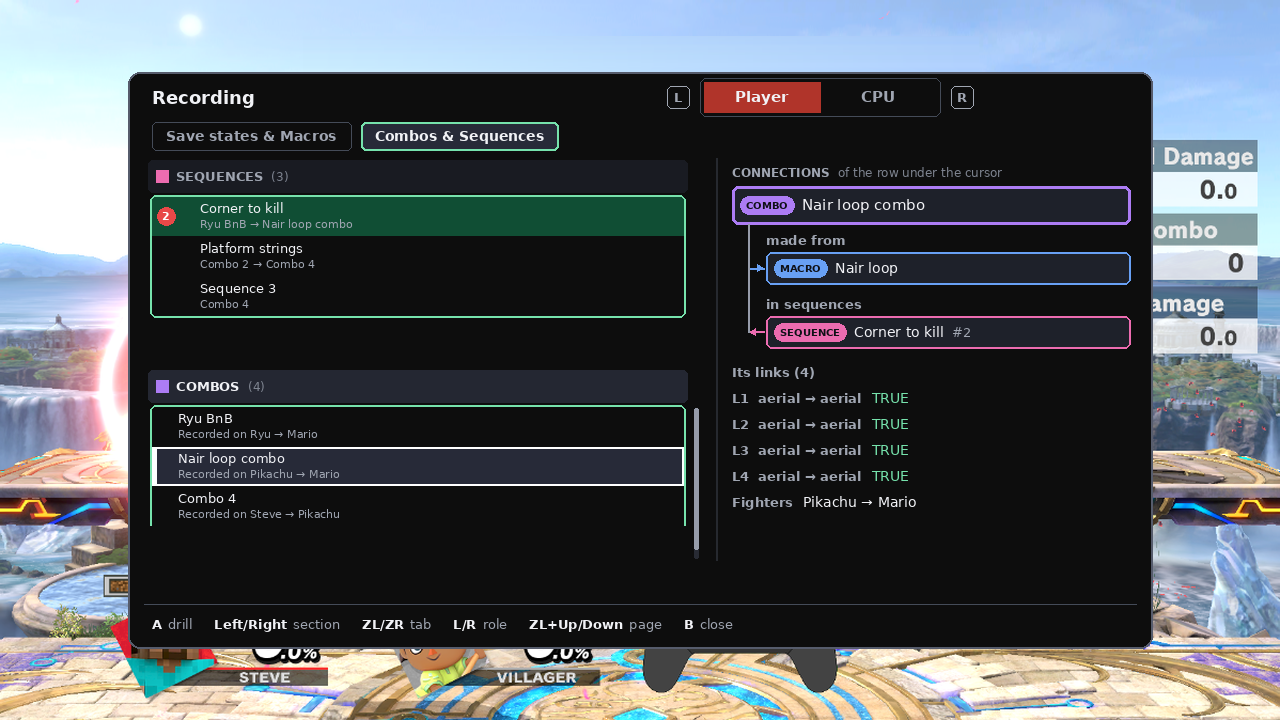
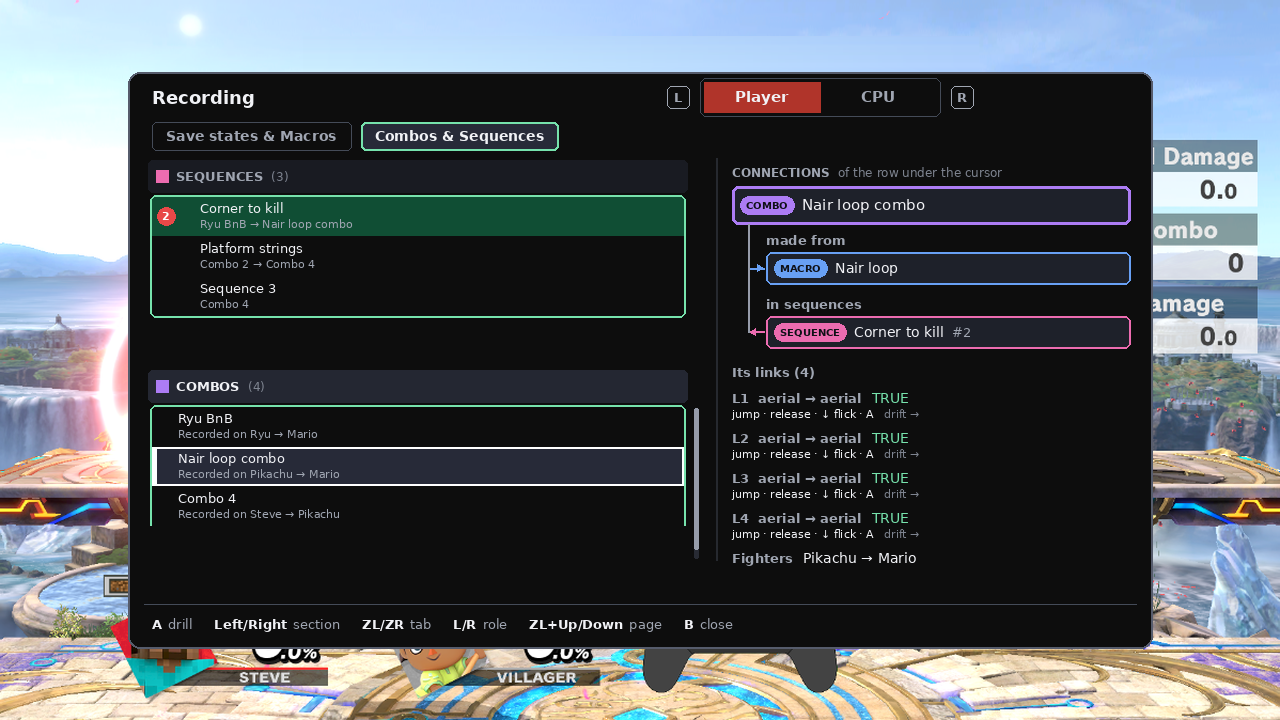
DECISIONS: RECORDING-REDESIGN revision 8.3, combos record input events; drift is information

Changed region(s): [[0.5625, 0.55, 0.7188, 0.7944]]

diff --git a/tools/render_recording_redesign.py b/tools/render_recording_redesign.py
@@ -827,10 +827,10 @@ def links_spec(key, role="player"):
                  "nodes": [("conv", n, None, "#%d" % i, False) for n, i in convs], "none": "none"},
             ],
             "lines": [("Its links (4)", "", None),
-                      ("L1  aerial → aerial", "TRUE", GREEN),
-                      ("L2  aerial → aerial", "TRUE", GREEN),
-                      ("L3  aerial → aerial", "TRUE", GREEN),
-                      ("L4  aerial → aerial", "TRUE", GREEN),
+                      ("L1  aerial → aerial", "TRUE", GREEN, "jump · release · ↓ flick · A", "drift →"),
+                      ("L2  aerial → aerial", "TRUE", GREEN, "jump · release · ↓ flick · A", "drift →"),
+                      ("L3  aerial → aerial", "TRUE", GREEN, "jump · release · ↓ flick · A", "drift →"),
+                      ("L4  aerial → aerial", "TRUE", GREEN, "jump · release · ↓ flick · A", "drift →"),
                       ("Fighters", combo["fighters"], ch.M_TEXT)],
         }
     conv = {v["key"]: v for v in V4}.get(key)
@@ -917,7 +917,10 @@ def links_panel(img, box, spec, header=True):
         y += 4
     d.line((stem_x, stem_top, stem_x, stem_bot), fill=(150, 156, 170, 255), width=2)
     y += 4
-    for label, value, colour in spec["lines"]:
+    for item in spec["lines"]:
+        label, value, colour = item[:3]
+        detail = item[3] if len(item) > 3 else None
+        drift = item[4] if len(item) > 4 else None
         if label == "LOOP":
             iv.text(d, (x0, y + 14), "Loop", fnt(13, bold=True), fill=ch.M_GROUP, anchor="lm")
             loop4(img, x0 + 40, y, value, 28)
@@ -938,7 +941,19 @@ def links_panel(img, box, spec, header=True):
             if value:
                 iv.text(d, (x0 + d.textlength(label, font=fl) + 10, y + 10), value, fnt(14),
                         fill=colour or ch.M_TEXT, anchor="lm")
-            y += 26
+            if detail:
+                fe = fnt(11)
+                ev_x = x0
+                # Stay inside the panel. A line that would pass the right edge is not drawn.
+                if ev_x + d.textlength(detail, font=fe) <= x1:
+                    iv.text(d, (ev_x, y + 26), detail, fe, fill=ch.M_TEXT, anchor="lm")
+                    if drift:
+                        dx = ev_x + d.textlength(detail, font=fe) + 10
+                        if dx + d.textlength(drift, font=fe) <= x1:
+                            iv.text(d, (dx, y + 26), drift, fe, fill=DIM, anchor="lm")
+                y += 40
+            else:
+                y += 26
     return y
 
 

diff --git a/docs/decisions/RECORDING-REDESIGN.md b/docs/decisions/RECORDING-REDESIGN.md
@@ -1,4 +1,4 @@
-# Recording redesign — revision 8.2
+# Recording redesign — revision 8.3
 
 Revision 7 records the operator's answers to every question (2026-11-06): pins are dropped, the hot five are the most recently used, and Q8 drills combos without requiring them to be true. This is the implementation spec.
 
@@ -11,6 +11,8 @@ Revision 8 applies the operator's answers of 2026-11-06. A save state only warps
 Revision 8.1 calls a connection between files a connection. The combo helper still says link for its hits, and the combo's panel lists each one with its two moves and whether it was recorded TRUE. The operator signed off: "yes have grok do both and then we are green to implement".
 
 Revision 8.2 records the operator's answers to the implementation questions. A different move does not count. R removes the last number, so a chain or a sequence may be empty. Switch / Keep for a chain is asked only for macro 1. Auto-load on death only warps to the bound save. The operator: "1. No. 2. agreed. 3. this should only apply to the first macro. if it's the second macro then it just keeps the same character. 4. agreed".
+
+Revision 8.3 records the inputs a combo link stores. A link records presses and releases, the C-stick, and stick flicks, up to 12 events, and drift is shown as information only. The operator: "yes do it, show drift as info only".
 
 Phase 1 screens. Nothing here is built. The pop-up sits on a real Training frame, `artifacts/phase23/overlay-investigation/frames/fix-tr-training.png` (Steve and Villager on Battlefield). The menu pictures are redrawn on the real rc.1 Recording page (`eden-runs/tr-p23-docs-capture-03`). Names and lengths are examples, and every picture uses the same example files. The first picture shows them.
 
@@ -156,7 +158,7 @@ Operator, 2026-11-06: "I agree with your answers to q12 and q13".
 
 ![Pop-up, a combo focused](RECORDING-REDESIGN-r8-popup-combo.png)
 
-*The cursor is on Nair loop combo. Corner to kill wears 2 at its left edge, because that combo is its second step. The Connections panel says Nair loop combo was made from Nair loop and is number 2 in Corner to kill. The panel lists each link, its two moves, and whether it was recorded TRUE. It reads the combo file's own `links`; nothing new is stored. Recorded on names both fighters, and it does not hide the row.*
+*The cursor is on Nair loop combo. Corner to kill wears 2 at its left edge, because that combo is its second step. The Connections panel says Nair loop combo was made from Nair loop and is number 2 in Corner to kill. The panel lists each link, its two moves, and whether it was recorded TRUE, then that link's events, for example "jump · release · ↓ flick · A", and drift as information ("drift →"). It reads the combo file's own `links`. A step counts when those events are there, of the same kind and direction, in order and within the tolerance, and the move that comes out is the recorded move. The operator: "yes do it, show drift as info only". Recorded on names both fighters, and it does not hide the row.*
 
 ### Q5 · How the two lists sit in the Combos & Sequences tab — decided: A
 
@@ -331,13 +333,17 @@ Operator, 2026-11-06.
 
 The bar is the combo helper's bar with a sequence header and a row for the sequence's combos. TRUE, the current link, and the links still to come use the helper's own marks. Streak and best count only a finished sequence. A drop restarts the sequence at combo 1, with the streak back to 0 and best kept; the Q8 picture shows it.
 
-**Grading, decided ([Q8](#q8-a-drop-and-what-completes-the-sequence-decided)); this changes the existing combo helper.** Today a combo attempt is clean only when every link is TRUE, every press is there, and every press is within the tolerance (`src/model/combo.rs`: `Grade::clean`, `Reason`). Clean no longer needs TRUE, for a combo drilled alone and for a sequence. A step counts when its recorded presses are there, with the same direction, in order and within the tolerance, and the move that comes out is the recorded move. A step drops on a missing press, a press outside the tolerance, a different move, or the exchange ending before the step. The exchange ends 20 frames after the CPU can act again, or on a shielded hit, so the CPU may act in a gap for up to 20 frames and a longer gap is a drop. TRUE stays on the bar as information.
+**Grading, decided ([Q8](#q8-a-drop-and-what-completes-the-sequence-decided)); this changes the existing combo helper.** Today a combo attempt is clean only when every link is TRUE, every press is there, and every press is within the tolerance (`src/model/combo.rs`: `Grade::clean`, `Reason`). Clean no longer needs TRUE, for a combo drilled alone and for a sequence. A step counts when its recorded input events are there, of the same kind and direction, in order and within the tolerance, and the move that comes out is the recorded move. A link records button presses and releases, the C-stick, and stick flicks (fast-fall, dash, tap-jump), each timed from the first frame you could act, up to 12 events. Directions are relative to facing (forward or back, up, down, and the diagonals). Left and right are told apart, and a combo recorded facing right still grades facing left. That facing rule is the primary's design choice. Drift, the held stick between events, is recorded and shown as information and is never graded. A missing or extra-late event is a drop, as is a different move, or the exchange ending before the step. Older combo files (presses only) still load and grade on their presses as before. Nothing new is required of a shared file. The exchange ends 20 frames after the CPU can act again, or on a shielded hit, so the CPU may act in a gap for up to 20 frames and a longer gap is a drop. TRUE stays on the bar as information. The operator: "yes do it, show drift as info only".
 
 ### Q8 · A drop, and what completes the sequence — decided
 
 A drop sends you back to combo 1 of the sequence, and the streak to 0; best is kept. Neither the sequence nor a combo has to be a true combo: the CPU may be able to act between the combos, or between two hits of one combo. This is for drilling things one after another. A step counts when you press its recorded buttons, with the same direction, in order and within the timing tolerance, and the move that comes out is the recorded move. A different move does not count, even when the presses match. A step drops on a missing press, a press outside the tolerance, a different move, or the exchange ending before the step. TRUE still shows on the bar, as information. It no longer decides whether a combo or a sequence counts. The exchange ends 20 frames after the CPU can act again, or on a shielded hit (the frame strip's `DROP_MAX`). So the CPU may act in a gap for up to 20 frames, and a longer gap is a drop. The primary asked: "Is that right? In particular: Should single combos also stop needing TRUE? Is a 20-frame allowance for the CPU acting the behaviour you want?" The operator: "that sounds right". The primary asked: "A different move with the same presses. Today the grader also fails a hit where the move came out different. Should that still count when the buttons, direction and timing are right?" The operator: "1. No."
 
 Operator, 2026-11-06.
+
+Amended in revision 8.3. A combo link records input events, not only presses: button presses and releases, the C-stick, and stick flicks (fast-fall, dash, tap-jump). Each event has its timing, counted from the first frame you could act. A link holds up to 12 events. Directions are relative to facing (forward or back, up, down, and the diagonals). Left and right are told apart, and a combo recorded facing right still grades facing left. That facing rule is the primary's design choice. A step counts when its recorded input events are there, of the same kind and direction, in order and within the tolerance, and the move that comes out is the recorded move. TRUE is still not required. A missing or extra-late event is a drop. Drift, the held stick between events, is recorded and shown as information. It is never graded. Older combo files (presses only) still load and grade on their presses as before. Nothing new is required of a shared file. Make combo and Save combo both record events. Save combo works from live play, because the strip already samples every frame. The operator asked: "if combos don't save inputs how do we know they were done properly? A nair loop for example that I record as a combo wouldn't that need the inputs? Otherwise it's just a glorified version of the combo counter in native training mode". The primary asked: "Should I do it? And should drift be shown only, as I suggest, or graded too?" The operator: "yes do it, show drift as info only".
+
+Operator, 2026-11-07.
 
 ![Q8, decided](RECORDING-REDESIGN-q8-decided.png)
 
@@ -385,7 +391,7 @@ Drilling one combo from a sequence's numbered rows uses that combo's own streak 
 - Pins are dropped. The hot five of each kind are the five most recently used, the most recent first. Used means selected (bound or set active), played, drilled or recorded. When a sixth is used, the least recently used leaves the outline and stays on the card under the hairline. Y is unused on these screens. Operator, 2026-11-06.
 - Q1, Q3, Q4, Q5, Q6, Q7, Q9, Q11, Q12 and Q13 are A; Q8 is the operator's own answer. Each block above says what it means. Operator, 2026-11-06.
 - When it is ambiguous, keep it consistent: few chords, with context deciding what they do. So the numbered picker (+ New chain, Edit chain, + New sequence, Edit combos) works as Character Cycles does: A gives the next number, R takes a number off and the later numbers close up, A on a numbered tile does nothing, and B is done. Inside the picker, R removes; the role toggle does not apply there, because the picker edits the file, whichever role it is active for. The operator: "when it's ambiguous I would keep it consistent. We want to minimize the number of chords and have context determine what they do. So in this case I would have R supercede A if that's more intuitive". Operator, 2026-11-06.
-- A combo or a sequence counts when its recorded presses are there, with the same direction, in order and within the tolerance, and the move that comes out is the recorded move. A different move does not count, even when the presses match, and a different move is a drop. TRUE is shown as information and is no longer a condition, for a combo drilled alone and for a sequence. This changes the existing combo helper (`Grade::clean`). The exchange ends 20 frames after the CPU can act again, or on a shielded hit, so the CPU may act in a gap for up to 20 frames and a longer gap is a drop. Confirmed: 'that sounds right'. Operator, 2026-11-06. The primary asked: "A different move with the same presses. Today the grader also fails a hit where the move came out different. Should that still count when the buttons, direction and timing are right?" The operator: "1. No." Operator, 2026-11-06.
+- A combo or a sequence counts when its recorded input events are there, of the same kind and direction, in order and within the tolerance, and the move that comes out is the recorded move. A link records presses and releases, the C-stick, and stick flicks (fast-fall, dash, tap-jump), up to 12 events, timed from the first frame you could act. Directions are relative to facing, the primary's design choice, so left and right are told apart and a combo recorded facing right still grades facing left. Drift is recorded and shown as information and is never graded. A missing or extra-late event is a drop. A different move does not count, even when the presses match, and a different move is a drop. TRUE is shown as information and is no longer a condition, for a combo drilled alone and for a sequence. This changes the existing combo helper (`Grade::clean`). The exchange ends 20 frames after the CPU can act again, or on a shielded hit, so the CPU may act in a gap for up to 20 frames and a longer gap is a drop. Confirmed: 'that sounds right'. Operator, 2026-11-06. The primary asked: "A different move with the same presses. Today the grader also fails a hit where the move came out different. Should that still count when the buttons, direction and timing are right?" The operator: "1. No." Operator, 2026-11-06. The operator: "yes do it, show drift as info only". Operator, 2026-11-07.
 - On the Recording page, A opens the file's own screen; on a save, Bind to Save / Load is that screen's first row. In the pop-up, A still binds, sets active, or drills. The page footers read "A open". The operator, on the primary's recommendations: "go with your recommendations and redraw them". Operator, 2026-11-06.
 - Make combo does not change the drill. The new combo joins the hot five at the top, because it was recorded, and the current drill stays the drill. "go with your recommendations and redraw them". Operator, 2026-11-06.
 - A macro's own screen, and a chain's, has one Set active row, for the role in view: "On · Player 1" (or "On · CPU" in the CPU view) or "Off". Left / Right turn it On or Off; On makes this file that role's active macro, replacing the one before, and that role's Play chord plays it. "go with your recommendations and redraw them". Operator, 2026-11-06.
@@ -394,11 +400,12 @@ Drilling one combo from a sequence's numbered rows uses that combo's own streak 
 - X cycles the loop on the Recording page too, when the cursor is in MACROS, as in the pop-up. The primary asked: "X on the Recording page: should X cycle the loop when the cursor is in MACROS, as it does in the pop-up?" The operator: "yes". Operator, 2026-11-06.
 - Connections between files are called connections. The combo helper still says link for its hits: L1, "N links", "link 1 of 4". The operator: "yes have grok do both and then we are green to implement". Operator, 2026-11-06.
 - The combo's Connections panel lists each link, its two moves, and whether it was recorded TRUE, for example "L1  aerial → aerial  TRUE". It reads the combo file's own `links`; nothing new is stored. The operator: "yes have grok do both and then we are green to implement". Operator, 2026-11-06.
-- A different move does not count, even when the presses match. A step counts when its recorded presses are there, with the same direction, in order and within the tolerance, and the move that comes out is the recorded move. A different move is a drop. TRUE is still not required. The primary asked: "A different move with the same presses. Today the grader also fails a hit where the move came out different. Should that still count when the buttons, direction and timing are right?" The operator: "1. No." Operator, 2026-11-06.
+- A different move does not count, even when the presses match. A step counts when its recorded input events are there, of the same kind and direction, in order and within the tolerance, and the move that comes out is the recorded move. A different move is a drop. TRUE is still not required. The primary asked: "A different move with the same presses. Today the grader also fails a hit where the move came out different. Should that still count when the buttons, direction and timing are right?" The operator: "1. No." Operator, 2026-11-06.
 - R removes the last number too, so a chain or a sequence may be empty. The picker is Character Cycles' picker, except that it allows an empty list. An empty chain plays nothing, and an empty sequence drills nothing, with no new sentence. The primary asked: "R on the last number in the picker. Character Cycles won't let you remove its last fighter, because a cycle can't be empty. A chain or sequence can be empty (nothing plays), so I'd let R remove the last number too." The operator: "2. agreed". Operator, 2026-11-06.
 - Switch / Keep for a chain is asked only for the chain's first macro. When a chain starts, the Fighter Mismatch prompt appears only if macro 1 was recorded on a different fighter. It is the existing single-macro prompt; Switch changes to macro 1's recorded fighter. Macros 2, 3 and later never ask and never switch. They play on the same character. The chain's prompt has no list of macros and no new text. The primary asked: "Switch / Keep when a chain mixes fighters. The prompt has a single "Switch to recorded fighter" button. Which fighter should Switch pick?" The operator: "this should only apply to the first macro. if it's the second macro then it just keeps the same character". Operator, 2026-11-06.
 - Auto-load on death only warps to the bound save. It does nothing when no save is bound. Mirroring, damage on load and buffs still apply to that warp. The primary asked: "Auto-load on death. Today it can start a recording. Since Load starts nothing, I'd make it only warp to the bound save, and do nothing if no save is bound." The operator: "4. agreed". Operator, 2026-11-06.
 - The primary recommended, and the operator did not object: migration skips empty slots, and the old slots' names use the date the migration runs; the loop's default is 1, and today's loop On becomes ∞; after the bound save is deleted, the next Save creates "Save N" and binds it; the current library selection (`macros/selected.txt`) becomes Player 1's active macro; a single combo's best stays as today. Primary's recommendation, 2026-11-06. No objection from the operator.
+- A combo link records the input events that decide execution: button presses and releases, the C-stick, and stick flicks (fast-fall, dash, tap-jump), each timed from the first frame you could act, up to 12 events. Directions are relative to facing (forward or back, up, down, and the diagonals), the primary's design choice, so left and right are told apart and a combo recorded facing right still grades facing left. Drift, the held stick between events, is recorded and shown as information and is never graded. Older combo files (presses only) still load and grade on their presses as before. Nothing new is required of a shared file. Make combo and Save combo both record events. Save combo works from live play, because the strip already samples every frame. The operator asked: "if combos don't save inputs how do we know they were done properly? A nair loop for example that I record as a combo wouldn't that need the inputs? Otherwise it's just a glorified version of the combo counter in native training mode". The primary asked: "Should I do it? And should drift be shown only, as I suggest, or graded too?" The operator: "yes do it, show drift as info only". Operator, 2026-11-07.
 
 ## Each file's screen, and the other rules
 
@@ -444,7 +451,7 @@ A chain has no Crop: it has no frames of its own. A deleted macro leaves a gap t
 
 | Row | What it does |
 | --- | --- |
-| Drill | This becomes the one drill, and a drilled sequence is cleared. An attempt counts when its recorded presses are there, in order and within the tolerance, and the move that comes out is the recorded move. A different move is a drop. TRUE is shown as information. A single combo's best stays as today. |
+| Drill | This becomes the one drill, and a drilled sequence is cleared. An attempt counts when its recorded input events are there, of the same kind and direction, in order and within the tolerance, and the move that comes out is the recorded move. A link holds up to 12 events: presses and releases, the C-stick, and stick flicks. Drift is shown as information and is never graded. A missing or extra-late event is a drop. A different move is a drop. TRUE is shown as information. A single combo's best stays as today. The operator: "yes do it, show drift as info only". |
 | Made from | The macro it was made from, when there is one |
 | Rename | Header "Name combo". Empty OK on a new combo is Combo N. Online, the keyboard stays closed and the name is Combo N. |
 | Crop | First link and last link. A saves a new combo. This file stays. |
@@ -473,7 +480,7 @@ The Save chord overwrites the bound file. If nothing is bound yet, Save creates 
 
 | Row | What it does |
 | --- | --- |
-| Drill sequence | This becomes the one drill. The helper grades the whole sequence: each combo's presses, in order and within the tolerance, and the move that comes out is the recorded move. A different move is a drop. TRUE is not required. |
+| Drill sequence | This becomes the one drill. The helper grades the whole sequence: each combo's input events, of the same kind and direction, in order and within the tolerance, and the move that comes out is the recorded move. Drift is shown as information and is never graded. A missing or extra-late event is a drop. A different move is a drop. TRUE is not required. The operator: "yes do it, show drift as info only". |
 | 1, 2… | A drills that combo alone. The sequence file stays. |
 | Edit combos | The numbered picker: A gives the next number, R takes one off, including the last, so the sequence may be empty |
 | Rename | Header "Name sequence". A new one that was never renamed is Sequence N. Online, the keyboard stays closed. |
@@ -552,7 +559,7 @@ A role's Play chord starts that role's active macro. When it is a chain, the cho
 | One hot macro, one minute | 3,600 × 8 = 28,800 bytes |
 | Five hot macros | 144,000 bytes |
 | One file at the 36,000-frame cap | 288 KiB, not all resident |
-| Five hot combos | A combo is at most 16 links. A few kilobytes. |
+| Five hot combos | A combo is at most 16 links, and a link holds up to 12 events: 16 × 12 = 192 events. A few kilobytes. |
 | Five hot saves | Both fighters' position, damage, and charges, plus a Mii only when the save has one. Far under the macro budget. |
 | Five hot sequences | A list of combo ids. A few kilobytes. |
 
@@ -590,6 +597,7 @@ No other new sentence is added. A long chain, a missing combo, an empty chain, a
 - Icons: Google Material Symbols (`repeat`, `save`, `link`, `format_list_numbered`), https://github.com/google/material-design-icons, Apache License 2.0. The copies and the licence are in [icons/](icons/). The renderer fills their path data with Pillow at 8× and downsamples. The colours, the dot, and the count badge are added by the renderer. `save` is new in revision 8; `link` stays for `q7-ab`, where it marks a sequence's reference to a combo file.
 - Changed in revision 8.1: the panel header, the diagram, the strips and Q7's reference line say connection. Nair loop combo's four links are aerial → aerial, each recorded TRUE, on its Connections panel and on the crop screen.
 - Changed in revision 8.2: `q4-ab`'s A side is one prompt for macro 1, Nair loop recorded on Pikachu with the CPU on Palutena, labelled "A · decided, amended", with the note "Macros 2 and 3 play on the same character; they never ask." The B side is unchanged. `r5-switch-keep` stays byte for byte; its caption says the prompt is asked once, for the chain's first macro.
+- Changed in revision 8.3: `r8-popup-combo` lists each of Nair loop combo's four links as aerial → aerial, recorded TRUE, with the events "jump · release · ↓ flick · A" and drift as information ("drift →").
 - Revision 8 redrew every picture with a save row, a start-save mark, a chain, or the old word, under `r8-` names. Renamed with `git mv`: `r4-links`, `r4-legend`, `r4-loop`, `r4-flow-record`, `r4-flow-chain` (now Make a chain), `r4-flow-make-combo` and `r4-flow-drill` to the same names with `r8-`; `r4-flow-conversion` to `r8-flow-sequence`, `r4-conversion-bar` to `r8-sequence-bar`, `r4-save-actions` and `r4-combo-actions` to `r8-`, `r4-conversion-actions` to `r8-sequence-actions`, `r6-macro-actions`, `r6-page-saves-macros`, `r6-page-combos`, `r6-popup-save`, `r6-popup-scrolled`, `r6-popup-macro`, `r6-popup-combo` and `r6-popup-cpu` to `r8-`, `r6-popup-conversion` to `r8-popup-sequence`, and `r7-page-cpu` to `r8-page-cpu`. New: `r8-chain-actions` (also Q2's picture), `q12-ab` and `q13-ab`. Redrawn under their names: `q1-ab`, `q3-ab`, `q4-ab`, `q5-ab`, `q6-ab`, `q7-ab`, `q8-decided`, `q9-ab`, `q11-ab` and `crop`. Removed: revision 3's `save-where`, which no page used and which showed the revision 3 model. Unchanged, byte for byte: `r5-switch-keep`, `respawn`, `shortcuts`, `keyboard`, `crop-macro` and `combo-from-macro`.
 - Changed in revision 7.2: strips 2 to 5 (no Y in the pickers; the stacked Combos & Conversions tab with CONVERSIONS on top; Make combo keeps the drill; Nair loop combo stops being the drill), the three Recording page pictures ("A open"), the macro's own screen (one Set active row), the scrolled pop-up (seven files, scrolled to the end), and revision 3's `keyboard`, `crop` and `crop-macro` (the current groups; the crop's kept range is a bracket; the keyboard's background no longer shows a settings page's hints). With the Q1 amendment: `q1-ab`'s A side and the pickers in strips 2 and 4 read "A add number", "R remove". After review: the strips are reordered so that Make combo (now strip 3) comes before Make a conversion (now strip 4), which uses Nair loop combo; the file names stay. Strip 2's first panel is the pop-up, with its footer; the crop screens and the keyboard's background are file screens, full width with a breadcrumb. The five strips read as one story: each starts where the one before it ends (Corner pressure gets its chain in strip 2, SAVE STATES holds eight files after strip 1, and Ryu BnB is the drill until strip 5 drills Corner to kill). From the sweep: the loop mark's note names the SAVE STATES, CONVERSIONS and COMBOS section headers, and strip 5's Links panel keeps its Drilled line. The revision 3 pictures are drawn by `--r3`.
 - New in revision 7.1: `RECORDING-REDESIGN-r7-page-cpu.png`, the Recording page's CPU view. Changed in revision 7.1: the pop-ups and pages with a bound save or an active macro, the legend, strips 1 and 2, the link diagram, and the save's own screen (one role per view, no role chips, Bind to Save / Load On · CPU). Removed in revision 7.1: `RECORDING-REDESIGN-r7-proposed.png`, with its section.
@@ -628,3 +636,4 @@ No other new sentence is added. A long chain, a missing combo, an empty chain, a
   Q8's reading was confirmed, and the operator said "that sounds right".
 - **Revision 8.1.** The operator, 2026-11-06: "yes have grok do both and then we are green to implement". Connections between files are called connections. The combo helper still says link for its hits, and the combo's panel lists each link with its two moves and TRUE. This is the operator's sign-off of the redesign.
 - **Revision 8.2.** The operator, 2026-11-06, on the implementation questions: "1. No. 2. agreed. 3. this should only apply to the first macro. if it's the second macro then it just keeps the same character. 4. agreed". A different move does not count. R removes the last number, so a chain or a sequence may be empty. Switch / Keep for a chain is asked only for macro 1. Auto-load on death only warps to the bound save. The primary's five recommendations stand, with no objection: migration skips empty slots and names old slots with the date the migration runs; the loop's default is 1 and today's loop On becomes ∞; after the bound save is deleted, the next Save creates "Save N" and binds it; `macros/selected.txt` becomes Player 1's active macro; a single combo's best stays as today.
+- **Revision 8.3.** The operator, 2026-11-07, asked: "if combos don't save inputs how do we know they were done properly? A nair loop for example that I record as a combo wouldn't that need the inputs? Otherwise it's just a glorified version of the combo counter in native training mode". The operator: "yes do it, show drift as info only". A combo link records presses and releases, the C-stick, and stick flicks, up to 12 events, facing-relative. Drift is recorded and shown as information and is never graded. Older files that store presses only still grade on those presses.

diff --git a/docs/DECISIONS.md b/docs/DECISIONS.md
@@ -1385,6 +1385,14 @@ Earlier the same day, on pins: "Are pins even helping with anything? they seem k
 - Auto-load on death only warps to the bound save. It does nothing when no save is bound. Mirroring, damage on load and buffs still apply to that warp. The operator: "4. agreed".
 - The primary's recommendations, to which the operator did not object: migration skips empty slots, and the old slots' names use the date the migration runs; the loop's default is 1, and today's loop On becomes ∞; after the bound save is deleted, the next Save creates "Save N" and binds it; the current library selection (`macros/selected.txt`) becomes Player 1's active macro; a single combo's best stays as today.
 
+**Decided in revision 8.3** (operator 2026-11-07: "yes do it, show drift as info only"). The operator asked: "if combos don't save inputs how do we know they were done properly? A nair loop for example that I record as a combo wouldn't that need the inputs? Otherwise it's just a glorified version of the combo counter in native training mode". The primary asked: "Should I do it? And should drift be shown only, as I suggest, or graded too?"
+- A combo link records input events, not only presses: button presses and releases, the C-stick, and stick flicks (fast-fall, dash, tap-jump). Each event has its timing, counted from the first frame you could act. A link holds up to 12 events. 16 links × 12 events is 192 events, still a few kilobytes.
+- Directions are relative to facing (forward or back, up, down, and the diagonals). Left and right are told apart, and a combo recorded facing right still grades facing left. That facing rule is the primary's design choice.
+- A step counts when its recorded input events are there, of the same kind and direction, in order and within the tolerance, and the move that comes out is the recorded move. TRUE is still not required. A missing or extra-late event is a drop.
+- Drift, the held stick between events, is recorded and shown as information. It is never graded.
+- Older combo files (presses only) still load and grade on their presses as before. Nothing new is required of a shared file.
+- Make combo and Save combo both record events. Save combo works from live play, because the strip already samples every frame.
+
 **Next:** implementation from `p23/rc5-candidate` `384e41f`; the operator signed off ('…green to implement'), 2026-11-06.
 
 ### INTRO-ONCE · The Training intro notices — ordered (2026-11-05)
